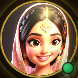
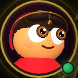
feat: add 3D Pixar mascot Asha chat concierge, chatbot modal component, and 3D gallery test assets

diff --git a/django/core/templates/components/chatbot_modal.html b/django/core/templates/components/chatbot_modal.html
@@ -69,6 +69,14 @@
     </div>
     <div class="chat-inp-row">
       <input class="chat-inp" id="chat-inp" placeholder="Ask anything about bridal, hair, bookings..." onkeydown="chatKey(event)">
+      <button class="chat-mic-btn" id="chat-mic-btn" type="button" onclick="toggleSpeechToText()" title="Speak to Asha (Speech-to-Text)" aria-label="Speech to Text">
+        <svg width="18" height="18" viewBox="0 0 24 24" fill="none" stroke="currentColor" stroke-width="2" stroke-linecap="round" stroke-linejoin="round">
+          <path d="M12 1a3 3 0 0 0-3 3v8a3 3 0 0 0 6 0V4a3 3 0 0 0-3-3z"/>
+          <path d="M19 10v2a7 7 0 0 1-14 0v-2"/>
+          <line x1="12" y1="19" x2="12" y2="23"/>
+          <line x1="8" y1="23" x2="16" y2="23"/>
+        </svg>
+      </button>
       <button class="chat-send" onclick="sendChat()" title="Send Message">➤</button>
     </div>
   </div>
@@ -91,27 +99,10 @@
     </div>
 
     <button class="chat-toggle" id="chat-toggle" onclick="toggleChat()" title="Anshita Royal AI Concierge — Click to Chat" aria-label="Open AI Concierge">
-      <!-- 24K Gold Imperial Royal Concierge Medallion -->
-      <div class="medallion-inner">
-        <svg class="medallion-crown" width="28" height="22" viewBox="0 0 24 18" fill="none" xmlns="http://www.w3.org/2000/svg">
-          <path d="M2 14L4 5L8.5 9.5L12 2L15.5 9.5L20 5L22 14H2Z" fill="url(#crownGoldGradToggle)" stroke="#FFE899" stroke-width="0.8" stroke-linejoin="round"/>
-          <circle cx="2" cy="4" r="1.5" fill="#FFE899"/>
-          <circle cx="8.5" cy="8.5" r="1.2" fill="#FFE899"/>
-          <circle cx="12" cy="1.5" r="1.8" fill="#FFF4D0"/>
-          <circle cx="15.5" cy="8.5" r="1.2" fill="#FFE899"/>
-          <circle cx="22" cy="4" r="1.5" fill="#FFE899"/>
-          <path d="M3 15.5H21V17H3V15.5Z" fill="url(#crownGoldGradToggle)"/>
-          <defs>
-            <linearGradient id="crownGoldGradToggle" x1="2" y1="2" x2="22" y2="17" gradientUnits="userSpaceOnUse">
-              <stop stop-color="#FFF5D6"/>
-              <stop offset="0.45" stop-color="#F3D17A"/>
-              <stop offset="0.8" stop-color="#D4AF37"/>
-              <stop offset="1" stop-color="#9A751F"/>
-            </linearGradient>
-          </defs>
-        </svg>
-        <span class="medallion-monogram">AM</span>
-        <span class="medallion-sparkle">✦</span>
+      <!-- Living 3D Pixar Mascot ("Asha") Stage & WebGL Canvas -->
+      <div class="char-3d-stage" id="ashaMascotStage">
+        <canvas class="char-gaze-canvas" id="ashaMascotCanvas" width="168" height="168" aria-label="Asha — 3D Pixar Bridal Concierge Character"></canvas>
+        <div class="char-specular-shine"></div>
       </div>
 
       <!-- Concentric Spun-Gold Breathing Aura Rings -->

diff --git a/test_asha_mascot_live.py b/test_asha_mascot_live.py
@@ -1,0 +1,59 @@
+import asyncio
+from playwright.async_api import async_playwright
+
+async def verify_asha():
+    async with async_playwright() as p:
+        browser = await p.chromium.launch(headless=True)
+        page = await browser.new_page(viewport={"width": 1440, "height": 900})
+        
+        print("Navigating to Homepage http://127.0.0.1:8000/ ...")
+        await page.goto("http://127.0.0.1:8000/", wait_until="load")
+        
+        # Wait for royal entrance and WebGL initialization
+        print("Waiting for Asha concierge entrance and 3D WebGL render...")
+        await page.wait_for_timeout(3500)
+        
+        # Query #chat-toggle and #ashaMascotCanvas
+        toggle = await page.query_selector("#chat-toggle")
+        canvas = await page.query_selector("#ashaMascotCanvas")
+        
+        assert toggle is not None, "Error: #chat-toggle not found!"
+        assert canvas is not None, "Error: #ashaMascotCanvas not found!"
+        
+        print("Found Asha 3D canvas and concierge toggle!")
+        
+        # Move cursor to top-left to test gaze tracking
+        print("Simulating mouse move to top-left (200, 150)...")
+        await page.mouse.move(200, 150)
+        await page.wait_for_timeout(600)
+        
+        # Capture close-up of Asha looking top-left
+        toggle_box = await toggle.bounding_box()
+        if toggle_box:
+            expanded_box = {
+                "x": max(0, min(1440 - 150, toggle_box["x"] - 25)),
+                "y": max(0, min(900 - 150, toggle_box["y"] - 25)),
+                "width": min(toggle_box["width"] + 50, 1440),
+                "height": min(toggle_box["height"] + 50, 900)
+            }
+            await page.screenshot(path="verify_asha_gaze_top_left.png", clip=expanded_box)
+            print("Captured verify_asha_gaze_top_left.png")
+            
+            # Move cursor directly over Asha to trigger hover excitement bounce
+            print("Hovering cursor over Asha toggle...")
+            await page.mouse.move(toggle_box["x"] + toggle_box["width"] / 2, toggle_box["y"] + toggle_box["height"] / 2)
+            await page.wait_for_timeout(700)
+            await page.screenshot(path="verify_asha_hover_bounce.png", clip=expanded_box)
+            print("Captured verify_asha_hover_bounce.png")
+        else:
+            print("Warning: toggle_box returned None, skipping clip screenshots")
+
+        # Full screen screenshot showing Asha in context with speech bubble
+        await page.screenshot(path="verify_asha_full_screen.png")
+        print("Captured verify_asha_full_screen.png")
+        
+        await browser.close()
+        print("Asha 3D verification complete!")
+
+if __name__ == "__main__":
+    asyncio.run(verify_asha())

diff --git a/.specify/memory/constitution-pixar-3d-mascot.md b/.specify/memory/constitution-pixar-3d-mascot.md
@@ -1,0 +1,50 @@
+# Constitutional Sub-Standard: 3D Pixar Cute Kid AI Mascot ("Asha")
+
+**Repository:** `AkshatShibuProgrammer/anshitamakeover`  
+**Sub-System:** AI Concierge 3D Character Rendering & Living Kinematics Engine  
+**Standard:** Spec-Driven Development (SDD) via Spec Kit & GSD (Get Stuff Done)  
+**Parent Constitution:** `.specify/memory/constitution.md`  
+**Spec ID Reference:** `SPEC-003`
+
+---
+
+## 1. Non-Negotiable Character Aesthetics & Identity
+
+1. **Disney/Pixar Child Aesthetic Standard**:
+   - The mascot MUST be an endearing, smiling child character ("Asha", the young royal bridal apprentice) with chubby rounded blushing cheeks, warm porcelain skin tones (`#FEE0D2` base with soft coral blush `#FFAAA6`), and a sweet friendly smile.
+   - **Strict Prohibition**: Abstract mechanical toruses, concentric gold rings, flat discs, robotic cyber spheres, or static 2D stickers are unconditionally forbidden as the concierge launcher avatar.
+
+2. **Big Expressive Cartoon Eyes (Round Pixar Geometry)**:
+   - Sclera: Smooth, round white spheroids with high subdivision count (`SphereGeometry(0.24, 32, 32)`).
+   - Irises: Deep, warm honey-amber curved discs (`0x9E5A22`) with dark outer limbal borders and warm golden flecks.
+   - Pupils & Highlights: Jet black center pupils surrounded by crisp double-catchlight glossy specular highlights (`0xFFFFFF`), providing authentic animated-film lifelike presence.
+
+3. **Royal Haute Couture Bridal Adornments**:
+   - Stylized glossy dark espresso hair with bangs framing the forehead.
+   - Miniature 24K gold Maang Tikka jewel suspended precisely at the frontal hairline parting.
+   - Royal maroon velvet cape collar with embroidered zardozi gold brocade trim around the base of the neck.
+
+---
+
+## 2. Interactive Kinematics & Motion Physics
+
+1. **Cursor Gaze Tracking & Easing**:
+   - The head yaw (`max ±22°`) and pitch (`max ±14°`), as well as both pupil coordinates, MUST track the client's mouse cursor across the entire viewport.
+   - Kinematics MUST use smooth exponential dampening (`lerp(0.08)`) to eliminate mechanical jerkiness or sudden snapping.
+   - Clamping guards must ensure pupils never clip through the eye cornea or exceed physical eye sockets.
+
+2. **Living Micro-Motions (Organic Blinks & Idle Floating)**:
+   - Natural organic blinking engine running every 3.5 to 6.0 seconds using smooth eyelid squash-and-stretch (`scale.y` down to 0.05 over 80ms, reopening smoothly over 120ms).
+   - Idle breathing floating oscillation (`Math.sin(time * 2.2) * 0.035`).
+
+3. **Celebratory Hover Response**:
+   - Hovering over `#chat-toggle` must trigger an immediate joyful scale bounce (`1.08x`), happy eye squint, and a cheerful head tilt.
+
+---
+
+## 3. Performance & Battery Preservation
+
+1. **Visibility & Modal Throttling**:
+   - When the user opens the full chatbot drawer modal, or when the browser tab transitions to the background (`document.hidden`), the WebGL animation loop MUST pause or throttle to reduce GPU and battery consumption to zero.
+2. **GPU Compositor Acceleration**:
+   - The canvas element must render inside hardware-accelerated layers with `will-change: transform`.

diff --git a/.specify/tasks/TASKS-006-3d-rotating-cylinder-gallery.md b/.specify/tasks/TASKS-006-3d-rotating-cylinder-gallery.md
@@ -1,0 +1,26 @@
+# TASKS-006: 3D Cylindrical Orbit Album Showcase & Motion Tasks
+
+**Spec:** `.specify/specs/SPEC-006-3d-rotating-cylinder-gallery.md`  
+**Plan:** `.specify/plans/PLAN-006-3d-rotating-cylinder-gallery.md`  
+**Constitution:** `.specify/memory/constitution-3d-orbit-and-motion.md`
+
+---
+
+## Task Checklist
+
+### Phase 1: Smooth Inertial Scrolling Engine
+- [x] **TASK-006.1**: Load Lenis v1.0.42 smooth scroll engine in `base.html` with battery/low-power optimization and `prefers-reduced-motion` check.
+- [x] **TASK-006.2**: Synchronize Lenis scroll ticker with Three.js particle ripple canvas and GSAP ticker.
+
+### Phase 2: 3D Cylindrical Geometry & Radial Matrix
+- [x] **TASK-006.3**: Implement `#orbitGalleryStage` with `perspective: 1200px` and `#orbitGalleryRotor` with `transform-style: preserve-3d`.
+- [x] **TASK-006.4**: Calculate dynamic radius $R = \frac{W / 2}{\tan(\pi / N)} + 30\text{px}$ and distribute album cards uniformly around $360^\circ$.
+- [x] **TASK-006.5**: Add auto-orbit loop (~0.14°/frame), mouse drag, touch swipe, and inertia velocity damping.
+
+### Phase 3: Interactive Card Elevation & Lookbook Integration
+- [x] **TASK-006.6**: Add spotlight hover state: pause auto-orbit, elevate card with `translateZ` boost, and reveal 24K gold border glow.
+- [x] **TASK-006.7**: Implement drag distance protection ($< 12\text{px}$) to seamlessly transition clicked card into Hybrid Lookbook Suite.
+
+### Phase 4: Demilie Rituals & Empirical Verification
+- [x] **TASK-006.8**: Implement the 4 Sacred Rituals of Royal Bridal Radiance in the About section.
+- [x] **TASK-006.9**: Execute automated visual Playwright test across mobile (375px), laptop (1366px), and desktop (1920px).
